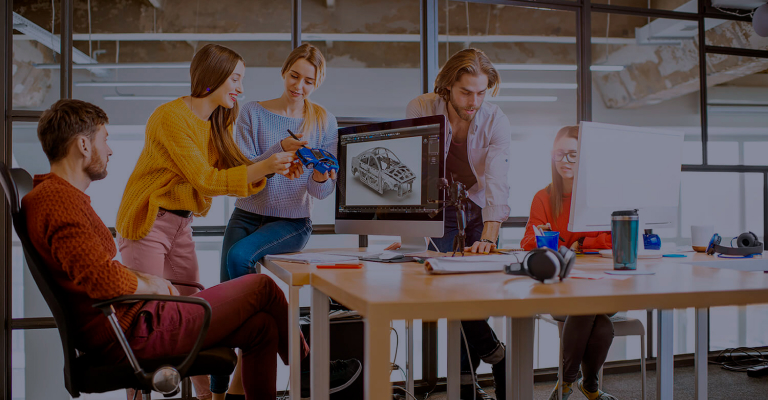
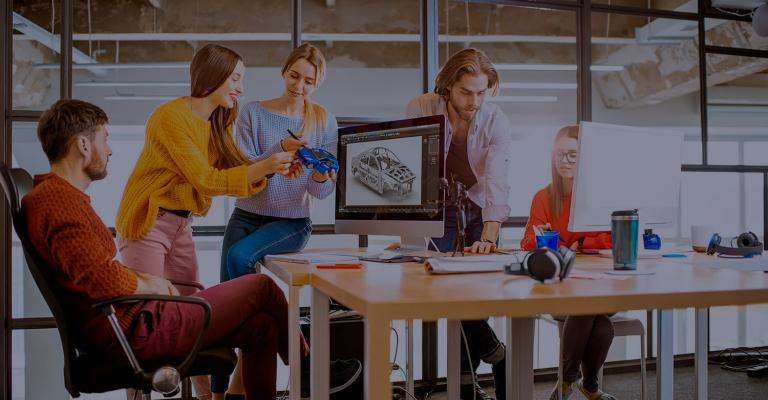
Added responsive images for all devices

diff --git a/index.html b/index.html
@@ -215,21 +215,34 @@
                 <h2 class="section-heading">What we do</h2>
                 <ul class="what-we-do-img-list">
                    <li class="what-we-do-card">
-                        <img src="./images/whatwedo-img1.jpg" alt="persoana tastand" width="370">
+                        
+                        <picture>
+                            <source srcset="./images/whatwedo-img1.jpg 1x, ./images/whatwedo-img1-2x.jpg 2x">
+                            <img src="./images/whatwedo-img1.jpg" alt="persoana tastand" width="370">
+                        </picture>
                             <div class="what-we-do-description">
                                 <span>DESKTOP APPS</span>
                             </div>
                     </li>
 
                     <li class="what-we-do-card">
-                        <img src="./images/whatwedo-img2.jpg" alt="persoana tinand un telefon" width="370">
+                        
+                        <picture>
+                            <source srcset="./images/whatwedo-img2.jpg 1x, ./images/whatwedo-img2-2x.jpg 2x">
+                            <img src="./images/whatwedo-img2.jpg" alt="persoana tinand un telefon" width="370">
+                        </picture>
+                        
                             <div class="what-we-do-description">
                                 <span>Mobile APPS</span>
                             </div>
                     </li>
 
                     <li class="what-we-do-card">
-                        <img src="./images/whatwedo-img3.jpg" alt="persoana tinand o tableta" width="370">
+                        
+                        <picture>
+                            <source srcset="./images/whatwedo-img3.jpg 1x, ./images/whatwedo-img3-2x.jpg 2x">
+                            <img src="./images/whatwedo-img3.jpg" alt="persoana tinand o tableta" width="370">
+                        </picture>
                             <div class="what-we-do-description">
                                 <span>DESIGN SOLUTIONS</span>
                             </div>
@@ -243,7 +256,14 @@
             <div>
                 <ul class="team-member-container">
                     <li class="team-member-card">
-                        <img class="team-member-img" src="./images/persoana-1.jpg" alt="barbat cu ochelari">
+
+                        <picture>
+                            <source media="(min-width: 1158px)" srcset="./images/persoana-1.jpg 1x, ./images/persoana-1-2x.jpg 2x">
+                            <source media="(min-width: 768px)" srcset="./images/persoana-1-t.png 1x, ./images/persoana-1-t-2x.jpg 2x">
+                            <source srcset="./images/persoana-1-m.jpg 1x, ./images/persoana-1-m-2x.jpg 2x">
+                            <img class="team-member-img" src="./images/persoana-1.jpg" alt="barbat cu ochelari">
+                        </picture>
+
                         <h3 class="team-member-name">Christopher Walker</h3>
                         <p class="team-member-rank">Product Designer</p>
                         <div class="team-member-links">
@@ -281,7 +301,13 @@
                     </li>
                     
                     <li class="team-member-card">
-                        <img class="team-member-img" src="./images/persoana-2.jpg" alt="femeie cu ochelari">
+                        
+                        <picture>
+                            <source media="(min-width: 1158px)" srcset="./images/persoana-2.jpg 1x, ./images/persoana-2-2x.jpg 2x">
+                            <source media="(min-width: 768px)" srcset="./images/persoana-2-t.jpg 1x, ./images/persoana-2-t-2x.jpg 2x">
+                            <source srcset="./images/persoana-2-m.jpg 1x, ./images/persoana-2-m-2x.jpg 2x">
+                            <img class="team-member-img" src="./images/persoana-2.jpg" alt="femeie cu ochelari">
+                        </picture>
                         <h3 class="team-member-name">Kylie Evans</h3>
                         <p class="team-member-rank">Frontend Developer</p>
                         <div class="team-member-links">
@@ -319,7 +345,13 @@
                     </li>
                     
                     <li class="team-member-card">
-                        <img class="team-member-img" src="./images/persoana-3.jpg" alt="barbat purtand  o camasa albastra">
+                       
+                        <picture>
+                            <source media="(min-width: 1158px)" srcset="./images/persoana-3.jpg 1x, ./images/persoana-3-2x.jpg 2x">
+                            <source media="(min-width: 768px)" srcset="./images/persoana-3-t.jpg 1x, ./images/persoana-3-t-2x.jpg 2x">
+                            <source srcset="./images/persoana-3-m.jpg 1x, ./images/persoana-3-m-2x.jpg 2x">
+                            <img class="team-member-img" src="./images/persoana-3.jpg" alt="barbat purtand  o camasa albastra">
+                        </picture>
                         <h3 class="team-member-name">Ryan Harris</h3>
                         <p class="team-member-rank">Marketing</p>
                         <div class="team-member-links">
@@ -357,7 +389,13 @@
                     </li>
                     
                     <li class="team-member-card">
-                        <img class="team-member-img" src="./images/persoana-4.jpg" alt="barbat purtand un tricou negru">
+                        
+                        <picture>
+                            <source media="(min-width: 1158px)" srcset="./images/persoana-4.jpg 1x, ./images/persoana-4-2x.jpg 2x">
+                            <source media="(min-width: 768px)" srcset="./images/persoana-4-t.jpg 1x, ./images/persoana-4-t-2x.jpg 2x">
+                            <source srcset="./images/persoana-4-m.jpg 1x, ./images/persoana-4-m-2x.jpg 2x">
+                            <img class="team-member-img" src="./images/persoana-4.jpg" alt="barbat purtand un tricou negru">
+                        </picture>
                         <h3 class="team-member-name">Tyler Moore</h3>
                         <p class="team-member-rank">UI Designer</p>
                         <div class="team-member-links">

diff --git a/css/styles.css b/css/styles.css
@@ -187,14 +187,30 @@ img {
   height: 400px;
   flex-direction: column;
   background-color: var(--main-section-backgroud-color);
-  background-image: linear-gradient(rgba(47, 48, 58, 0.4), rgba(0, 0, 0, 0.5)),
-    url("../images/main-section-bg.jpg");
+  background-image: linear-gradient(
+      rgba(47, 48, 58, 0.4),
+      rgba(47, 48, 58, 0.4)
+    ),
+    url("../images/main-section-bg-m.jpg");
   background-repeat: no-repeat;
   background-size: cover;
+  background-position: center;
   padding-top: 118px;
   padding-bottom: 118px;
   padding-left: 60px;
   padding-right: 60px;
+}
+@media (min-device-pixel-ratio: 2),
+  (-webkit-min-device-pixel-ratio: 2),
+  (min-resolution: 192dpi),
+  (min-resolution: 2dppx) {
+  .main-section {
+    background-image: linear-gradient(
+        rgba(47, 48, 58, 0.4),
+        rgba(47, 48, 58, 0.4)
+      ),
+      url("../images/main-section-bg-m-2x.jpg");
+  }
 }
 
 .main-section-head {
@@ -1096,7 +1112,10 @@ textarea:focus {
     height: 400px;
     padding-top: 118px;
     padding-bottom: 118px;
-    background-image: (rgba(47, 48, 58, 0.4), rgba(0, 0, 0, 0.5)),
+    background-image: linear-gradient(
+        rgba(47, 48, 58, 0.4),
+        rgba(47, 48, 58, 0.4)
+      ),
       url("../images/main-section-bg-t.jpg");
     background-size: cover;
     align-items: center;
@@ -1109,9 +1128,9 @@ textarea:focus {
     .main-section {
       background-image: linear-gradient(
           rgba(47, 48, 58, 0.4),
-          rgba(0, 0, 0, 0.5)
+          rgba(47, 48, 58, 0.4)
         ),
-        url("../images/main-section-bgx2.jpg");
+        url("../images/main-section-bg-t-2x.jpg");
     }
   }
   .main-section-head {
@@ -1330,12 +1349,17 @@ textarea:focus {
     height: 30px;
   }
   .main-section {
-    width: 1400px;
+    width: 1600px;
     height: 600px;
     padding-top: 200px;
     padding-bottom: 200px;
     background-size: cover;
     align-items: center;
+    background-image: linear-gradient(
+        rgba(47, 48, 58, 0.4),
+        rgba(47, 48, 58, 0.4)
+      ),
+      url("../images/main-section-bg.jpg");
   }
   @media (min-device-pixel-ratio: 2),
     (-webkit-min-device-pixel-ratio: 2),
@@ -1344,9 +1368,12 @@ textarea:focus {
     .main-section {
       background-image: linear-gradient(
           rgba(47, 48, 58, 0.4),
-          rgba(0, 0, 0, 0.5)
+          rgba(47, 48, 58, 0.4)
         ),
-        url("../images/main-section-bgx2.jpg");
+        url("../images/main-section-bg-2x.jpg");
+      background-position: center;
+      background-repeat: no-repeat;
+      background-size: cover;
     }
   }
   .main-section-head {
